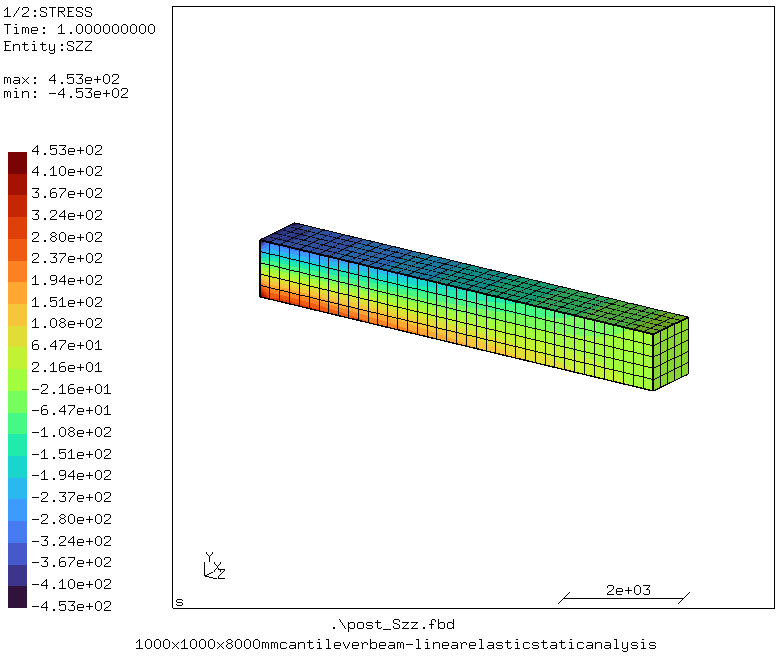
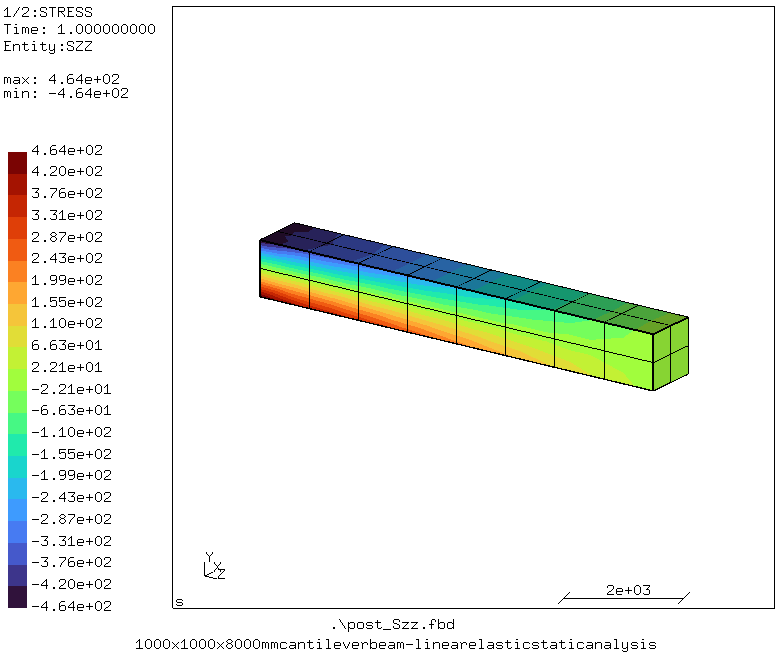
Modified structural examples

diff --git a/structural/linear_static/02_cantilever_beam/readme.md b/structural/linear_static/02_cantilever_beam/readme.md
@@ -7,7 +7,7 @@ A cantilever beam loaded by point forces at its free end is analyzed. The proble
 
 <img src="inputs/problem.png" width="600" title="Problem description">
 
-The beam size is 1000 x 1000 x 8000 mm<sup>3</sup>, which is loaded with a point force of 9x10<sup>6</sup> N and is completely fixed in all directions on the left end.
+The beam size is 1000 x 1000 x 8000 mm<sup>3</sup>, which is loaded with a point force of 9x10<sup>6</sup> N and is completely fixed in all directions on the left end. See [analytical_solution_cantilever_beam.ipynb](reference/analytical_solution_cantilever_beam.ipynb) for the analytical solution.
 
 ## Platform
 Software: Tested with cgx 2.23/ccx 2.23\
@@ -19,9 +19,9 @@ File                                                         | Contents
 :-------------                                               | :-------------
 [cantilever_linearstatic.fbd](cantilever_linearstatic.fbd)   | Pre-processing script for CGX for generating cube and its mesh     
 [cantilever_linearstatic.inp](cantilever_linearstatic.inp)   | CCX input of the simulation
-[post_disp.fbd](post_disp.fbd)                               | Post-processing script for CGX (contour plot of displacement magnitude)
+[post_d2.fbd](post_d2.fbd)                                   | Post-processing script for CGX (contour plot of displacement in y direction)
 [post_mises.fbd](post_mises.fbd)                             | Post-processing script for CGX (contour plot of von Mises stress)
-[post_Szz.fbd](post_Szz.fbd)                                 | Post-processing script for CGX (contour plot of stress in axial direction)
+[post_Szz.fbd](post_Szz.fbd)                                 | Post-processing script for CGX (contour plot of stress in z direction)
 [run.py](run.py)                                             | Run all commands to solve and view the simulation's results
 
 ## Preprocessing
@@ -46,14 +46,14 @@ Loading:
 
 ## Postprocessing
 ```
-> cgx -b post_disp.fbd
+> cgx -b post_d2.fbd
 ```
 
-This creates a contour plot of the displacement magnitude with a deformation factor of 10.
+This creates a contour plot of the displacement in y-direction magnitude with a deformation factor of 10. 
 
-<img src="results/plot_disp_linearStatic.png" width="300" title="Displacement magnitude">
+<img src="results/plot_d2_linearStatic.png" width="300" title="Displacement magnitude">
 
-This figure shows the deformation of the bea, under the load. As expected, the beam bends due to the lateral force at its right end.
+This figure shows the deformation of the beam, under the load. As expected, the beam bends due to the lateral force at its right end. The result here exactly matches with the analytical solution, as mentioned in [analytical_solution_cantilever_beam.ipynb](reference/analytical_solution_cantilever_beam.ipynb).
 
 ```
 > cgx -b post_mises.fbd

diff --git a/readme.md b/readme.md
@@ -7,7 +7,7 @@ A collection of finite element analysis (FEA) examples using **[CalculiX](http:/
   title="Linear elastic displacement of a single element cube">
   ](structural/linear_static/01_cube/)
 [<img
-  src="structural/linear_static/02_cantilever_beam/results/plot_disp_linearStatic.png"
+  src="structural/linear_static/02_cantilever_beam/results/plot_d2_linearStatic.png"
   width="200"
   title="Linear elastic analysis of a cantilever beam">
 ](structural/linear_static/02_cantilever_beam/)
